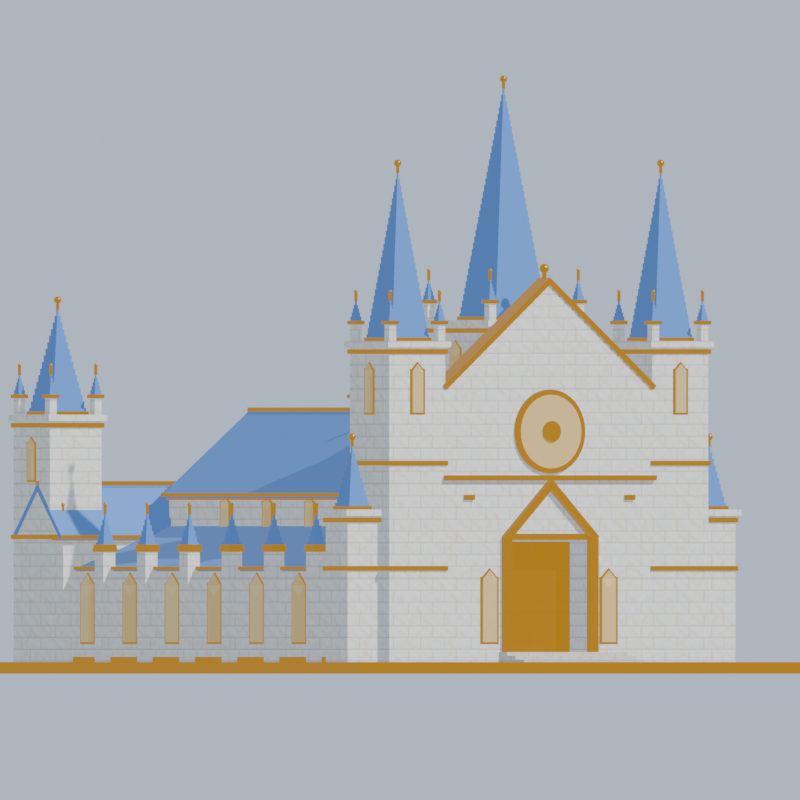
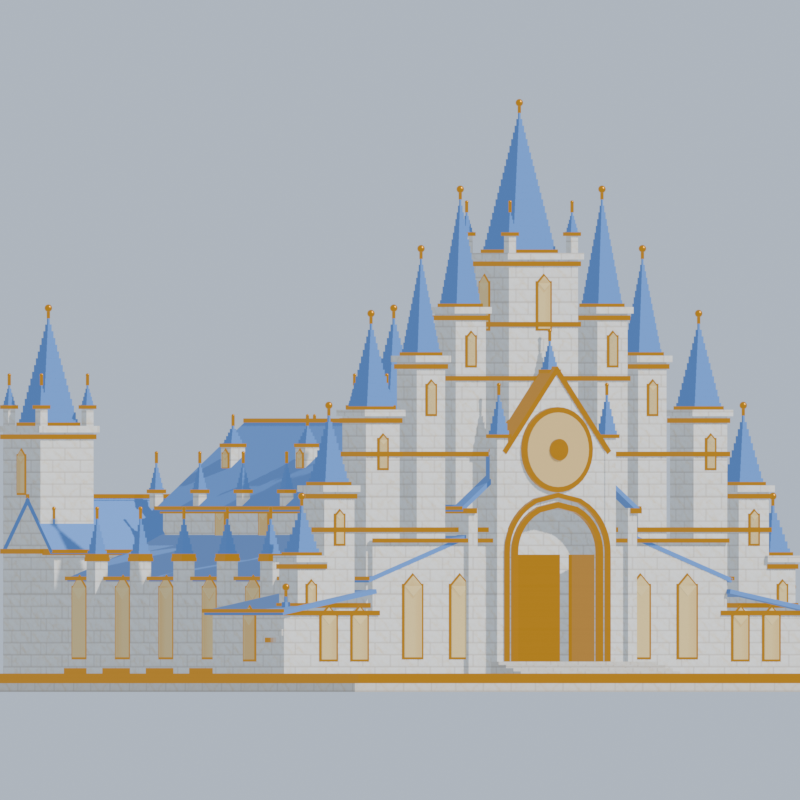
이미지3: 빛 성 C2 골격 v2(탑 계단·작은 첨탑·뾰족 정문·기단) + 시트

Changed region(s): [[0.0, 0.0938, 1.0, 0.875]]

diff --git a/tools/skeleton_castle.py b/tools/skeleton_castle.py
@@ -139,124 +139,178 @@ def tower(name, cx, cy, w, z0, z1, spire_h, bands=(), win_faces=(), win=(1.0, 3.
 
 
 # ---------------------------------------------------------------- dimensions (studs)
-Z0 = 1.0                                   # platform top = floor
+# v2 (최종 검수 10/12): measured on the 2D front (art/out/s2/halo/castle6/HaloCastle_C2_front_HQ_src.png, platform 770 px =
+# 62 studs, 12.4 px a stud): a staircase of towers from the middle out - centre spire tip 53, then 45, 40, 34, 25.5, 17,
+# 8.5 at x 0, 8, 12.5, 18.5, 23.4, 26.6, 28.6; portal ~10 wide, pointed apex 15.7; rose window centre 20.3, 6.9 across.
+Z0 = 1.6                                   # platform top = floor (a wide white two-step base)
 NX = 9.0                                   # nave half width
 AX = 20.0                                  # aisle outer wall
 YF = 25.0                                  # facade front face
 YB = -24.0                                 # nave / aisles back end
-NAVE_TOP, AISLE_TOP = 17.0, 10.0
+NAVE_TOP, AISLE_TOP = 17.0, 10.5
 RIDGE = 25.0
 BAYS = [YF - 5 - 7 * k for k in range(7)]   # bay centres along the aisles: 20 13 6 -1 -8 -15 -22
 
-# platform + front plaza + steps
-box("Platform", -31, 31, -32, 38, 0.0, Z0, "floor")
+# platform (two steps) + front plaza + wide front stairs
+box("PlatformLow", -32.5, 32.5, -33.5, 39.5, 0.0, 0.8, "floor")
+box("Platform", -31.0, 31.0, -32.0, 38.0, 0.8, Z0, "floor")
 for e_, (x0, x1, y0, y1) in enumerate(((-31.2, 31.2, 37.8, 38.2), (-31.2, 31.2, -32.2, -31.8), (-31.2, -30.8, -32, 38), (30.8, 31.2, -32, 38))):
-    box("PlatformEdge%d" % e_, x0, x1, y0, y1, 0.0, Z0 + 0.1, "gold")
-for s_ in range(3):
-    box("Step%d" % s_, -7 + s_ * 0.0, 7, YF + 4.5 - s_ * 1.4, YF + 4.5 - s_ * 1.4 + 1.4, Z0, Z0 + 0.35 * (s_ + 1), "floor")
+    box("PlatformEdge%d" % e_, x0, x1, y0, y1, 0.8, Z0 + 0.1, "gold")
+for s_ in range(4):                          # the front stairs down from the portal to the plaza
+    box("Step%d" % s_, -9.0, 9.0, YF + 6.5 - s_ * 1.2, YF + 6.5 - s_ * 1.2 + 1.2, Z0, Z0 + 0.3 * (s_ + 1), "floor")
 box("FloorInside", -NX + 0.6, NX - 0.6, YB + 0.6, YF - 0.6, Z0, Z0 + 0.1, "floor")
 
-# nave: side walls above the aisle roofs with clerestory lancets, gable roof
-for sg in (-1, 1):
-    box("NaveWall%d" % ((sg + 1) // 2), sg * NX - 0.5, sg * NX + 0.5, YB, YF, Z0, NAVE_TOP) if sg > 0 else \
-        box("NaveWall%d" % ((sg + 1) // 2), sg * NX - 0.5, sg * NX + 0.5, YB, YF, Z0, NAVE_TOP)
-    add("NaveCornice%d" % ((sg + 1) // 2), (YF - YB + 0.6, 0.5, 1.1), (sg * (NX + 0.3), (YF + YB) / 2, NAVE_TOP - 0.25), (0.0, 1.0, 0.0), UP, "gold")
-    for b_, yb in enumerate(BAYS[1:-1]):
-        lancet("Clere%d_%d" % ((sg + 1) // 2, b_), (sg, 0.0), sg * (NX + 0.5), yb, AISLE_TOP + 3.6, 1.2, 2.6)
-gable_roof_y("Nave", -NX - 0.5, NX + 0.5, YB, YF - 1.0, NAVE_TOP, RIDGE)
-box("NaveBackWall", -NX, NX, YB - 1.0, YB, Z0, NAVE_TOP)
-
-# aisles: outer walls with tall lancets, buttress pinnacles between the bays, lean-to roofs
+# nave: side walls above the aisle roofs with clerestory lancets, gable roof, pinnacles on the cornice, small roof dormers
 for sg in (-1, 1):
     k_ = (sg + 1) // 2
-    box("AisleWall%d" % k_, sg * AX - 0.5, sg * AX + 0.5, YB, YF - 3.0, Z0, AISLE_TOP) if sg > 0 else \
-        box("AisleWall%d" % k_, sg * AX - 0.5, sg * AX + 0.5, YB, YF - 3.0, Z0, AISLE_TOP)
-    add("AisleBase%d" % k_, (YF - 3.0 - YB + 0.6, 0.6, 1.4), (sg * (AX + 0.2), (YF - 3.0 + YB) / 2, Z0 + 0.3), (0.0, 1.0, 0.0), UP, "gold")
-    box("AisleFront%d" % k_, min(sg * NX, sg * AX), max(sg * NX, sg * AX), YF - 3.5, YF - 2.5, Z0, AISLE_TOP + 2.0)
+    box("NaveWall%d" % k_, sg * NX - 0.5, sg * NX + 0.5, YB, YF, Z0, NAVE_TOP)
+    add("NaveCornice%d" % k_, (YF - YB + 0.6, 0.5, 1.1), (sg * (NX + 0.3), (YF + YB) / 2, NAVE_TOP - 0.25), (0.0, 1.0, 0.0), UP, "gold")
+    for b_, yb in enumerate(BAYS[1:-1]):
+        lancet("Clere%d_%d" % (k_, b_), (sg, 0.0), sg * (NX + 0.5), yb, AISLE_TOP + 2.6, 1.2, 3.4)
+    for b_, yb in enumerate([y - 3.5 for y in BAYS[1:]]):   # cornice pinnacles between the clerestory windows
+        px = sg * (NX + 0.4)
+        add("NavePin%d_%d" % (k_, b_), (0.9, 1.4, 0.9), (px, yb, NAVE_TOP + 0.7))
+        spire("NavePinSp%d_%d" % (k_, b_), px, yb, NAVE_TOP + 1.4, 1.0, 2.8, 0.35)
+gable_roof_y("Nave", -NX - 0.5, NX + 0.5, YB, YF - 1.0, NAVE_TOP, RIDGE)
+for d_, yb in enumerate((BAYS[2], BAYS[4], BAYS[6] + 2.0)):  # small pointed dormers on both nave slopes
+    for sg in (-1, 1):
+        dx_ = sg * 4.6
+        zr_ = NAVE_TOP + (RIDGE - NAVE_TOP) * (1 - abs(dx_) / (NX + 1.1))
+        box("NaveDormer%d_%d" % (d_, (sg + 1) // 2), dx_ - 0.8, dx_ + 0.8, yb - 0.8, yb + 0.8, zr_ - 1.2, zr_ + 1.3)
+        lancet("NaveDormerWin%d_%d" % (d_, (sg + 1) // 2), (sg, 0.0), dx_ + sg * 0.8, yb, zr_ - 0.6, 0.7, 1.2)
+        spire("NaveDormerSp%d_%d" % (d_, (sg + 1) // 2), dx_, yb, zr_ + 1.3, 1.5, 2.0, 0.3)
+box("NaveBackWall", -NX, NX, YB - 1.0, YB, Z0, NAVE_TOP)
+
+# aisles: outer walls with tall pointed windows, buttress piers + pinnacles between the bays, lean-to roofs
+for sg in (-1, 1):
+    k_ = (sg + 1) // 2
+    box("AisleWall%d" % k_, sg * AX - 0.5, sg * AX + 0.5, YB, YF - 12.0, Z0, AISLE_TOP)
+    add("AisleBase%d" % k_, (YF - 12.0 - YB + 0.6, 0.6, 1.4), (sg * (AX + 0.2), (YF - 12.0 + YB) / 2, Z0 + 0.3), (0.0, 1.0, 0.0), UP, "gold")
     box("AisleBack%d" % k_, min(sg * NX, sg * AX), max(sg * NX, sg * AX), YB - 0.5, YB + 0.5, Z0, AISLE_TOP)
-    for b_, yb in enumerate(BAYS[1:]):
-        lancet("AisleWin%d_%d" % (k_, b_), (sg, 0.0), sg * (AX + 0.5), yb, Z0 + 2.0, 2.0, 5.4)
-    for b_, yb in enumerate([y - 3.5 for y in BAYS]):    # buttress piers + pinnacles between the windows
+    for b_, yb in enumerate(BAYS[2:]):
+        lancet("AisleWin%d_%d" % (k_, b_), (sg, 0.0), sg * (AX + 0.5), yb, Z0 + 1.6, 2.0, 6.4)
+    for b_, yb in enumerate([y - 3.5 for y in BAYS[1:]]):
         px = sg * (AX + 1.0)
         box("Buttress%d_%d" % (k_, b_), px - 0.7, px + 0.7, yb - 0.7, yb + 0.7, Z0, AISLE_TOP + 1.6)
         add("ButtressCap%d_%d" % (k_, b_), (1.7, 0.35, 1.7), (px, yb, AISLE_TOP + 1.75), mat="gold")
-        spire("ButtressSp%d_%d" % (k_, b_), px, yb, AISLE_TOP + 1.95, 1.3, 3.2, 0.4)
-    lean_roof("Aisle%d" % k_, sg, sg * AX, sg * NX, YB, YF - 3.0, AISLE_TOP, AISLE_TOP + 4.2)
+        spire("ButtressSp%d_%d" % (k_, b_), px, yb, AISLE_TOP + 1.95, 1.3, 3.6, 0.4)
+    lean_roof("Aisle%d" % k_, sg, sg * AX, sg * NX, YB, YF - 1.0, AISLE_TOP, AISLE_TOP + 4.2)
 
-# facade: front wall + pointed gable + rose-window opening + pointed-arch portal with two real gold door leaves
-FW = 12.0                                    # facade half width (between the towers)
-FT = 27.0                                    # facade wall top (gable foot)
-GH = 10.0                                    # gable height
-DW, DH = 10.0, 12.0                          # portal (plan door size 10 x 12)
-box("FacadeL", -FW, -DW / 2, YF - 1.5, YF, Z0, FT)
-box("FacadeR", DW / 2, FW, YF - 1.5, YF, Z0, FT)
-box("FacadeTop", -DW / 2, DW / 2, YF - 1.5, YF, Z0 + DH, FT)          # solid above the lintel (the pointed arch is gold trim on it)
-n_ = 16
-for k in range(n_):                           # the pointed gable: horizontal strips (marble), gold coping
-    wk = 2 * FW * (1 - (k + 0.5) / n_)
-    box("FacadeGable%d" % k, -wk / 2, wk / 2, YF - 1.5, YF, FT + GH * k / n_, FT + GH * (k + 1) / n_ + 0.02)
-for sg in (-1, 1):
-    ln_ = math.hypot(FW, GH)
-    X_ = norm((-sg * FW, 0.0, GH)) if sg > 0 else norm((FW, 0.0, GH))
-    add("FacadeCoping%d" % ((sg + 1) // 2), (ln_ + 0.4, 0.5, 2.0), (sg * FW / 2, YF - 0.75, FT + GH / 2 + 0.3), X_,
-        norm((sg * GH, 0.0, FW)), "gold")
-add("FacadeGableFinial", (0.3, 1.2, 0.3), (0, YF - 0.75, FT + GH + 0.6), mat="gold")
-ball("FacadeGableBall", 0.9, (0, YF - 0.75, FT + GH + 1.5))
-# the portal: tympanum under a pointed arch (two tilted gold bars), the opening DW x DH, a deep reveal, two gold leaves
-for sg in (-1, 1):
-    ln_ = math.hypot(DW / 2, DW / 2)
-    add("PortalArch%d" % ((sg + 1) // 2), (ln_ + 0.6, 0.7, 0.9), (sg * DW / 4, YF + 0.15, Z0 + DH + DW / 4),
-        norm((-sg * 1.0, 0.0, 1.0)), (0.0, 1.0, 0.0), "gold")
-    parts[-1]["X"] = [round(c, 5) for c in norm((-sg, 0.0, 1.0))]
-    parts[-1]["Y"] = [0.0, 1.0, 0.0]
-    parts[-1]["size"] = [round(ln_ + 0.6, 4), 0.9, 0.7]
-    box("PortalJamb%d" % ((sg + 1) // 2), sg * DW / 2 - 0.45, sg * DW / 2 + 0.45, YF - 0.2, YF + 0.5, Z0, Z0 + DH, "gold")
-box("PortalLintel", -DW / 2, DW / 2, YF - 0.3, YF + 0.3, Z0 + DH - 0.3, Z0 + DH + 0.3, "gold")
-box("PortalReveal_L", -DW / 2, -DW / 2 + 0.4, YF - 4.0, YF - 1.5, Z0, Z0 + DH)
-box("PortalReveal_R", DW / 2 - 0.4, DW / 2, YF - 4.0, YF - 1.5, Z0, Z0 + DH)
-box("PortalReveal_T", -DW / 2, DW / 2, YF - 4.0, YF - 1.5, Z0 + DH - 0.4, Z0 + DH)
-for sg in (-1, 1):                            # A23-120 real doors: two leaves, hinge on the outer jamb (names for a door script)
-    box("Door_Leaf%s" % ("L" if sg < 0 else "R"), min(sg * 0.05, sg * (DW / 2 - 0.45)), max(sg * 0.05, sg * (DW / 2 - 0.45)),
-        YF - 3.4, YF - 3.0, Z0 + 0.05, Z0 + DH - 0.45, "gold")
-# rose window opening: a round glass + gold rings (the 8-petal tracery = a Tripo / Blender part in this slot)
-RZ, RD = Z0 + DH + DW / 2 + 5.0, 7.0
-disk("RoseRingOuter", RD + 1.0, 0.5, (0, YF + 0.1, RZ), (0.0, 1.0, 0.0))
-disk("RoseGlass", RD, 0.3, (0, YF + 0.25, RZ), (0.0, 1.0, 0.0), "wglass")
-disk("RoseRingInner", 2.0, 0.5, (0, YF + 0.35, RZ), (0.0, 1.0, 0.0))
-orn.append({"type": "rose_window", "name": NAME + "_Rose", "pos": [0, YF + 0.4, RZ], "D": RD, "petals": 8,
-            "src": "art/out/s2/halo/castle6/parts_high/CastlePartHigh_Rose_*.png"})
-orn.append({"type": "wing", "name": NAME + "_WingL", "pos": [FW + 3.0, YF + 1.0, FT - 2], "h": 26,
-            "src": "art/out/s2/halo/castle6/parts_high/CastlePartHigh_WingL_*.png"})
-orn.append({"type": "wing", "name": NAME + "_WingR", "pos": [-FW - 3.0, YF + 1.0, FT - 2], "h": 26,
-            "src": "art/out/s2/halo/castle6/parts_high/CastlePartHigh_WingR_*.png"})
-for k in range(3):                            # facade lancets beside the portal
-    for sg in (-1, 1):
-        lancet("FacadeWin%d_%d" % ((sg + 1) // 2, k), (0.0, 1.0), sg * (DW / 2 + 1.9), YF, Z0 + 2.0 + 0.0 * k, 1.6, 6.0) if k == 0 else None
-add("FacadeBand", (2 * FW + 0.4, 0.5, 0.6), (0, YF + 0.2, Z0 + DH + DW / 2 + 0.6), mat="gold")
-
-# facade towers, front turrets, crossing tower, back block + back towers
-TWF = 6.5
+# front chapels (the low wide front either side, under the outer towers): x 20..30, the front 12 studs
 for sg in (-1, 1):
     k_ = (sg + 1) // 2
-    tower("FrontTower%d" % k_, sg * (FW + TWF / 2), YF - TWF / 2, TWF, Z0, 31.0, 16.0, bands=(10.0, 20.0),
-          win_faces=((0.0, 1.0), (sg, 0.0)), win=(1.2, 4.0))
-    tower("FrontTurret%d" % k_, sg * (AX + 0.7), YF - 3.0, 3.6, Z0, AISLE_TOP + 5.0, 6.0, bands=(AISLE_TOP,), turrets=False)
-CY, CW = YF - 7.5, 11.0                        # the tall spire tower stands right behind the facade (2D left / right)
-tower("CrossTower", 0.0, CY, CW, NAVE_TOP - 1.0, 33.0, 22.0, spire_w=0.55, bands=(RIDGE - 0.5,),
-      win_faces=((0.0, 1.0), (1.0, 0.0), (-1.0, 0.0), (0.0, -1.0)), win=(1.4, 4.4))
-orn.append({"type": "halo_ring", "name": NAME + "_HaloRing", "pos": [0.0, CY, 33.0 + 22.0 + 2.0], "R": 7.5,
-            "note": "exact circle ring (Blender), 디자인 검수 10/12"})
+    x0_, x1_ = sorted((sg * AX - sg * 0.5, sg * 30.0))
+    box("Chapel%d" % k_, x0_, x1_, YF - 12.0, YF - 0.5, Z0, 7.5)
+    add("ChapelCornice%d" % k_, (x1_ - x0_ + 0.4, 0.45, 11.9), ((x0_ + x1_) / 2, YF - 6.25, 7.3), mat="gold")
+    lean_roof("Chapel%d" % k_, sg, sg * 30.0, sg * AX, YF - 12.0, YF - 0.5, 7.5, 9.5)
+    for w_, xw in enumerate((sg * 21.5, sg * 25.0)):
+        lancet("ChapelWin%d_%d" % (k_, w_), (0.0, 1.0), xw, YF - 0.5, Z0 + 1.4, 1.6, 4.0)
+    lancet("ChapelSideWin%d" % k_, (sg, 0.0), sg * 30.0, YF - 6.0, Z0 + 1.4, 1.6, 4.0)
+
+# facade screen between the centre block and the chapels (the aisle fronts): wall + pointed windows
+for sg in (-1, 1):
+    k_ = (sg + 1) // 2
+    x0_, x1_ = sorted((sg * 5.8, sg * AX))
+    box("Screen%d" % k_, x0_, x1_, YF - 1.5, YF - 0.5, Z0, AISLE_TOP + 3.5)
+    add("ScreenBand%d" % k_, (x1_ - x0_, 0.4, 0.5), ((x0_ + x1_) / 2, YF - 0.3, AISLE_TOP + 3.5), mat="gold")
+    for w_, xw in enumerate((sg * 10.2, sg * 15.5)):
+        lancet("ScreenWin%d_%d" % (k_, w_), (0.0, 1.0), xw, YF - 0.5, Z0 + 1.6, 1.9, 6.6)
+
+# facade centre block: front wall, a steep pointed gable, the rose window, the tall pointed portal with real doors
+FW = 5.8                                     # centre block half width (2D 330..470 px)
+FT = 22.0                                    # wall top (gable foot)
+GH = 7.5                                     # gable height (apex 29.5)
+DW, DH = 9.6, 11.3                           # portal opening + door leaf height (2D)
+AP = 4.4                                     # pointed arch rise above the leaves (apex 15.7 + base)
+box("FacadeL", -FW, -DW / 2, YF - 1.5, YF + 0.5, Z0, FT)
+box("FacadeR", DW / 2, FW, YF - 1.5, YF + 0.5, Z0, FT)
+box("FacadeTop", -DW / 2, DW / 2, YF - 1.5, YF + 0.5, Z0 + DH + AP, FT)
+n_ = 16
+for k in range(n_):
+    wk = 2 * FW * (1 - (k + 0.5) / n_)
+    box("FacadeGable%d" % k, -wk / 2, wk / 2, YF - 1.5, YF + 0.5, FT + GH * k / n_, FT + GH * (k + 1) / n_ + 0.02)
+for sg in (-1, 1):
+    ln_ = math.hypot(FW, GH)
+    add("FacadeCoping%d" % ((sg + 1) // 2), (ln_ + 0.4, 0.5, 2.4), (sg * FW / 2, YF - 0.5, FT + GH / 2 + 0.3),
+        norm((-sg * FW, 0.0, GH)) if sg > 0 else norm((FW, 0.0, GH)), norm((sg * GH, 0.0, FW)), "gold")
+spire("FacadeGableSp", 0.0, YF - 0.5, FT + GH, 1.2, 3.0, 0.4)
+for sg in (-1, 1):                            # pinnacles on the centre block corners
+    add("FacadePin%d" % ((sg + 1) // 2), (1.2, FT + 1.5 - Z0, 1.2), (sg * (FW + 0.3), YF, (FT + 1.5 + Z0) / 2))
+    spire("FacadePinSp%d" % ((sg + 1) // 2), sg * (FW + 0.3), YF, FT + 1.5, 1.4, 4.0, 0.4)
+# the portal: the opening DW x (DH + AP) with a pointed head (stepped fill), two gold arch bands, a glowing inner window
+nA = 10
+for k in range(nA):                           # the pointed head: fill strips either side, narrowing upwards
+    f0, f1 = k / nA, (k + 1) / nA
+    hw = DW / 2 * math.sqrt(max(0.0, 1 - ((f0 + f1) / 2) ** 2))    # a rounded-point (gothic) curve
+    for sg in (-1, 1):
+        x0_, x1_ = sorted((sg * hw, sg * DW / 2))
+        if x1_ - x0_ > 0.02:
+            box("PortalHead%d_%d" % (k, (sg + 1) // 2), x0_, x1_, YF - 1.5, YF + 0.5, Z0 + DH + AP * f0, Z0 + DH + AP * f1 + 0.02)
+for band, (off, wd) in enumerate(((0.0, 0.55), (0.9, 0.45))):
+    for sg in (-1, 1):
+        pts = []
+        for k in range(nA + 1):
+            f = k / nA
+            pts.append((sg * (DW / 2 + off) * math.sqrt(max(0.0, 1 - f * f)), Z0 + DH + (AP + off) * f))
+        for k in range(nA):
+            (xa, za), (xb, zb) = pts[k], pts[k + 1]
+            ln_ = math.hypot(xb - xa, zb - za)
+            add("PortalArch%d_%d_%d" % (band, (sg + 1) // 2, k), (ln_ + 0.06, 0.5, wd), ((xa + xb) / 2, YF + 0.65, (za + zb) / 2),
+                norm((xb - xa, 0.0, zb - za)), (0.0, 1.0, 0.0), "gold")
+    for sg in (-1, 1):
+        box("PortalJamb%d_%d" % (band, (sg + 1) // 2), sg * (DW / 2 + off) - wd / 2, sg * (DW / 2 + off) + wd / 2, YF + 0.4, YF + 0.9, Z0, Z0 + DH, "gold")
+lancet("PortalInnerWin", (0.0, 1.0), 0.0, YF - 3.6, Z0 + 3.0, 3.0, 9.0)          # the glowing window behind the doors (2D)
+box("PortalReveal_L", -DW / 2, -DW / 2 + 0.4, YF - 4.0, YF - 1.5, Z0, Z0 + DH + AP)
+box("PortalReveal_R", DW / 2 - 0.4, DW / 2, YF - 4.0, YF - 1.5, Z0, Z0 + DH + AP)
+box("PortalBack", -DW / 2, DW / 2, YF - 4.2, YF - 3.8, Z0, Z0 + DH + AP)
+for sg in (-1, 1):                            # A23-120 real doors: two leaves standing open a little (2D), hinge on the jambs
+    leaf_w = DW / 2 - 0.2
+    hx = sg * (DW / 2 - 0.15)
+    ang = math.radians(28)
+    cx_ = hx - sg * leaf_w / 2 * math.cos(ang)
+    cy_ = YF - 0.2 + leaf_w / 2 * math.sin(ang)
+    add("Door_Leaf%s" % ("L" if sg < 0 else "R"), (leaf_w, DH - 0.2, 0.35), (cx_, cy_, Z0 + (DH - 0.2) / 2),
+        norm((-sg * math.cos(ang), math.sin(ang), 0.0)), UP, "gold")
+# rose window: round glass + gold rings (the 8-petal tracery = a Tripo / Blender part in this slot)
+RZ, RD = 22.4, 6.9                              # above the portal arch apex (18.2)
+disk("RoseRingOuter", RD + 1.0, 0.5, (0, YF + 0.6, RZ), (0.0, 1.0, 0.0))
+disk("RoseGlass", RD, 0.3, (0, YF + 0.75, RZ), (0.0, 1.0, 0.0), "wglass")
+disk("RoseRingInner", 2.0, 0.5, (0, YF + 0.85, RZ), (0.0, 1.0, 0.0))
+orn.append({"type": "rose_window", "name": NAME + "_Rose", "pos": [0, YF + 0.9, RZ], "D": RD, "petals": 8,
+            "src": "art/out/s2/halo/castle6/parts_high/CastlePartHigh_Rose_*.png"})
+for sg, nm in ((1, "WingL"), (-1, "WingR")):
+    orn.append({"type": "wing", "name": NAME + "_" + nm, "pos": [sg * (FW + 4.0), YF + 1.5, 24.0], "h": 30,
+                "src": "art/out/s2/halo/castle6/parts_high/CastlePartHigh_%s_*.png" % nm})
+
+# the tower staircase across the front (2D): (x, body width, body top, spire h); centre tower behind the gable
+STAIR = [(8.0, 3.4, 35.0, 10.0), (12.5, 3.2, 30.5, 9.0), (18.5, 3.8, 25.5, 8.0), (23.4, 3.4, 18.5, 6.5),
+         (26.6, 3.0, 12.0, 4.6), (28.6, 2.4, 5.2, 3.0)]
+for i_, (xt, wt, zt, sh) in enumerate(STAIR):
+    for sg in (-1, 1):
+        yt = YF - 1.0 - wt / 2 - (0.8 if i_ in (0, 1) else 0.0)
+        tower("StairTower%d_%d" % (i_, (sg + 1) // 2), sg * xt, yt, wt, Z0, zt, sh, bands=tuple(z for z in (8.0, 15.0, 22.0, 29.0) if z < zt - 2),
+              win_faces=((0.0, 1.0),) if zt > 10 else (), win=(0.8, 2.6 if zt > 14 else 1.6), turrets=False, spire_w=0.8)
+CY, CW = YF - 5.4, 7.8                        # the centre tower (the tallest spire, the halo ring over it)
+tower("CentreTower", 0.0, CY, CW, Z0, 40.0, 13.0, spire_w=0.62, bands=(29.0, 34.0),
+      win_faces=((0.0, 1.0), (1.0, 0.0), (-1.0, 0.0), (0.0, -1.0)), win=(1.3, 4.2))
+orn.append({"type": "halo_ring", "name": NAME + "_HaloRing", "pos": [0.0, CY, 46.5], "R": 7.3,
+            "note": "exact circle ring (Blender), 디자인 검수 10/12; 2D ring 180 px = 14.5 studs across"})
+
+# back block + back towers + the great back window
 BX0, BX1, BY0, BY1 = -22.0, 22.0, -31.0, YB
 box("BackBlock", BX0, BX1, BY0, BY1, Z0, 13.0)
 add("BackBlockCornice", (BX1 - BX0 + 0.6, 0.5, BY1 - BY0 + 0.6), (0, (BY0 + BY1) / 2, 12.9), mat="gold")
 gable_roof_x("Back", BX0, BX1, BY0, BY1, 13.0, 18.0)
 for b_, xb in enumerate((-15.0, -8.0, 8.0, 15.0)):
     lancet("BackWin%d" % b_, (0.0, -1.0), xb, BY0, Z0 + 2.2, 2.0, 6.0)
-lancet("BackGreatWin", (0.0, -1.0), 0.0, BY0, Z0 + 2.0, 4.0, 9.0)        # the tall pointed window of the 2D back
+lancet("BackGreatWin", (0.0, -1.0), 0.0, BY0, Z0 + 2.0, 4.0, 9.0)
 for sg in (-1, 1):
     k_ = (sg + 1) // 2
     tower("BackTower%d" % k_, sg * (BX1 - 2.5), BY0 + 2.5, 6.0, Z0, 24.0, 10.0, bands=(13.0,),
           win_faces=((0.0, -1.0), (sg, 0.0)), win=(1.0, 3.4))
+    for b_, xb in enumerate((sg * 9.0, sg * 14.0)):          # back block pinnacles
+        add("BackPin%d_%d" % (k_, b_), (0.9, 1.4, 0.9), (xb, BY0 + 0.2, 13.7))
+        spire("BackPinSp%d_%d" % (k_, b_), xb, BY0 + 0.2, 14.4, 1.0, 2.8, 0.35)
 orn.append({"type": "star_finials", "name": NAME + "_Stars", "note": "gold star tops on the spires (2D), Tripo parts"})
 
 # ---------------------------------------------------------------- outputs (same Luau writer as tools/skeleton_house.py)
@@ -306,4 +360,4 @@ json.dump(parts, open(base + ".json", "w"), indent=0)
 json.dump({"note": "%s decoration slots (tools/skeleton_castle.py): Tripo parts -> Blender 손보기 (A23-147)" % NAME, "items": orn},
           open(base + "_ornaments.json", "w"), indent=1)
 print("[castle] %s: %d parts, %d slots, body x %.0f..%.0f y %.0f..%.0f, crossing spire tip %.1f -> %s"
-      % (NAME, len(parts), len(orn), -AX - 1.7, AX + 1.7, BY0, YF + 5, 33.0 + 0.6 + 22.0, OUT))
+      % (NAME, len(parts), len(orn), -32.5, 32.5, BY0, YF + 6.5, 40.0 + 0.6 + 13.0, OUT))
